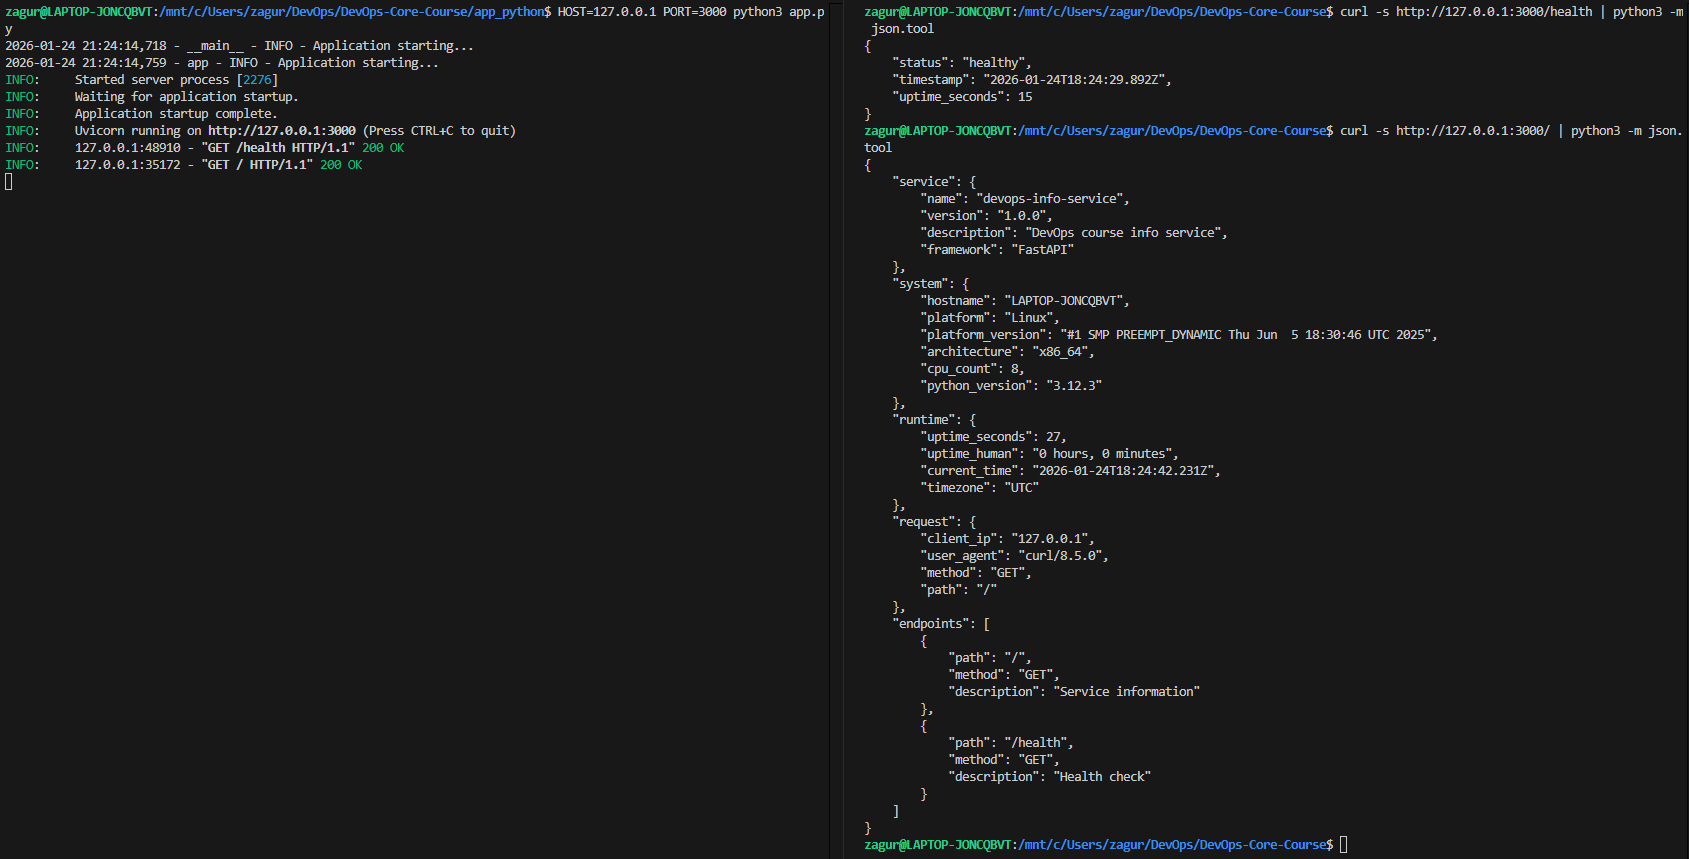
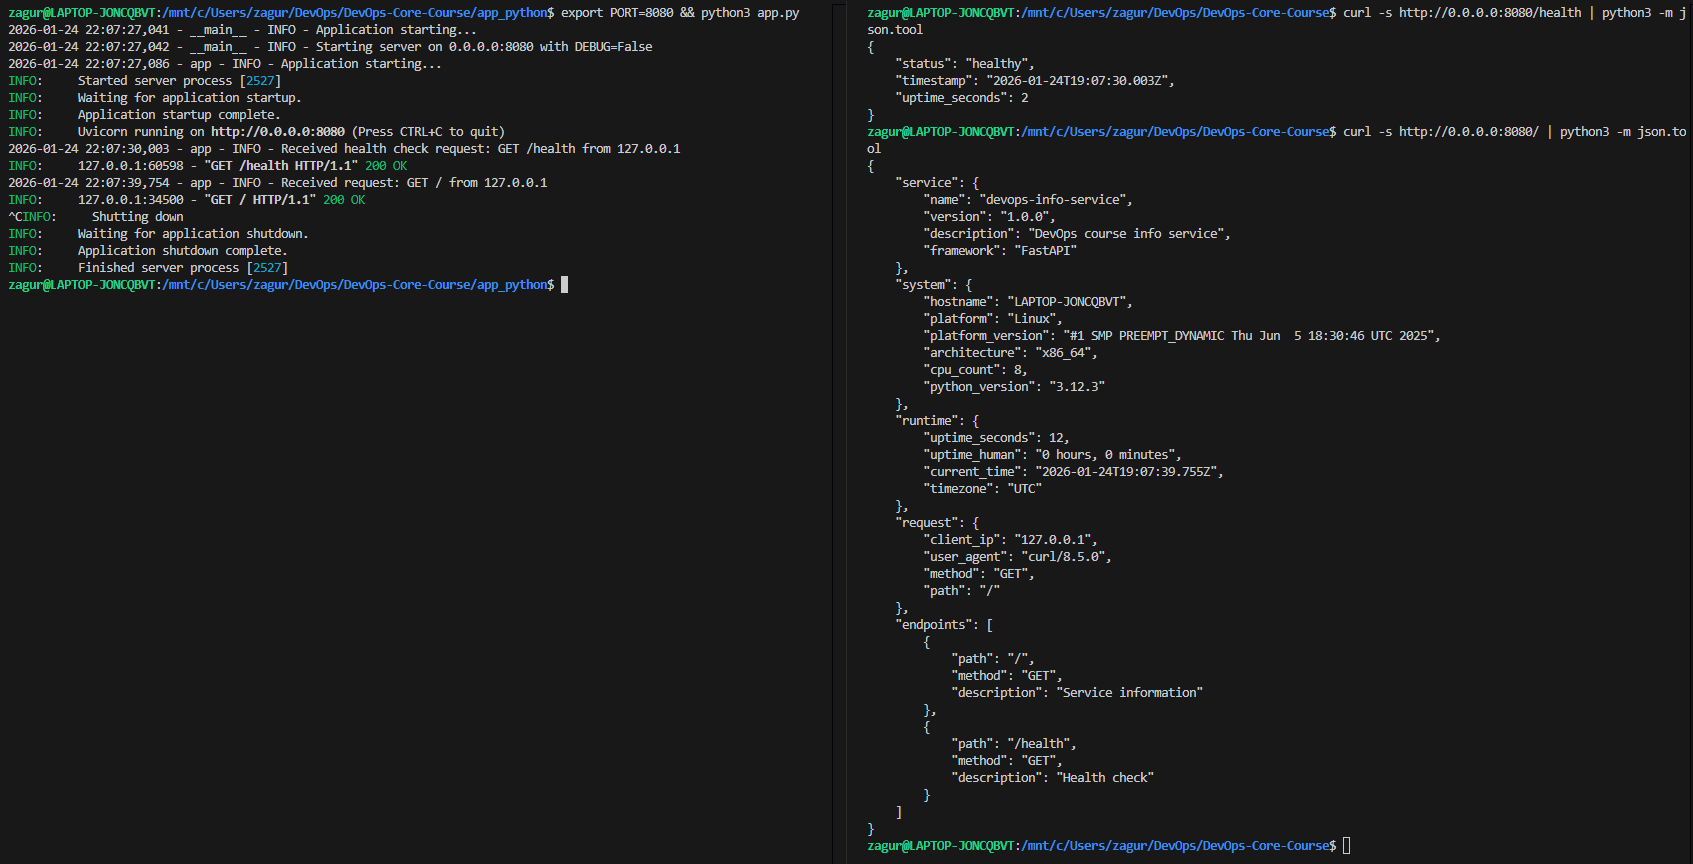
feat: add logging

diff --git a/app_python/app.py b/app_python/app.py
@@ -84,6 +84,9 @@ async def root(request: Request):
     Main endpoint that returns service, system, and runtime information.
     """
     up = get_uptime_seconds()
+
+    logger.info(f"Received request: {request.method} {request.url.path} from {request.client.host}")
+
     return {
         "service": {
             "name": SERVICE_NAME,
@@ -111,11 +114,13 @@ async def root(request: Request):
     }
 
 @app.get("/health", response_class=JSONResponse)
-async def health():
+async def health(request: Request):
     """
     Health check endpoint for monitoring.
     """
     up = get_uptime_seconds()
+
+    logger.info(f"Received health check request: {request.method} {request.url.path} from {request.client.host}")
     return {
         "status": "healthy",
         "timestamp": iso_utc_now(),
@@ -124,6 +129,7 @@ async def health():
 
 @app.exception_handler(404)
 async def not_found_exception(request: Request, exc: HTTPException):
+    logger.error(f"404 Error: {exc.detail} for {request.url.path}")
     return JSONResponse(
         status_code=404,
         content={"message": "Endpoint not found", "error": str(exc)},
@@ -131,12 +137,12 @@ async def not_found_exception(request: Request, exc: HTTPException):
 
 @app.exception_handler(500)
 async def internal_server_error(request: Request, exc: HTTPException):
+    logger.error(f"500 Error: {str(exc)} for {request.url.path}")
     return JSONResponse(
         status_code=500,
         content={"message": "Internal server error", "error": str(exc)},
     )
 
 if __name__ == "__main__":
-
-    # uvicorn needs "app:app" reference
+    logger.info(f"Starting server on {HOST}:{PORT} with DEBUG={DEBUG}")
     uvicorn.run("app:app", host=HOST, port=PORT, reload=DEBUG)
